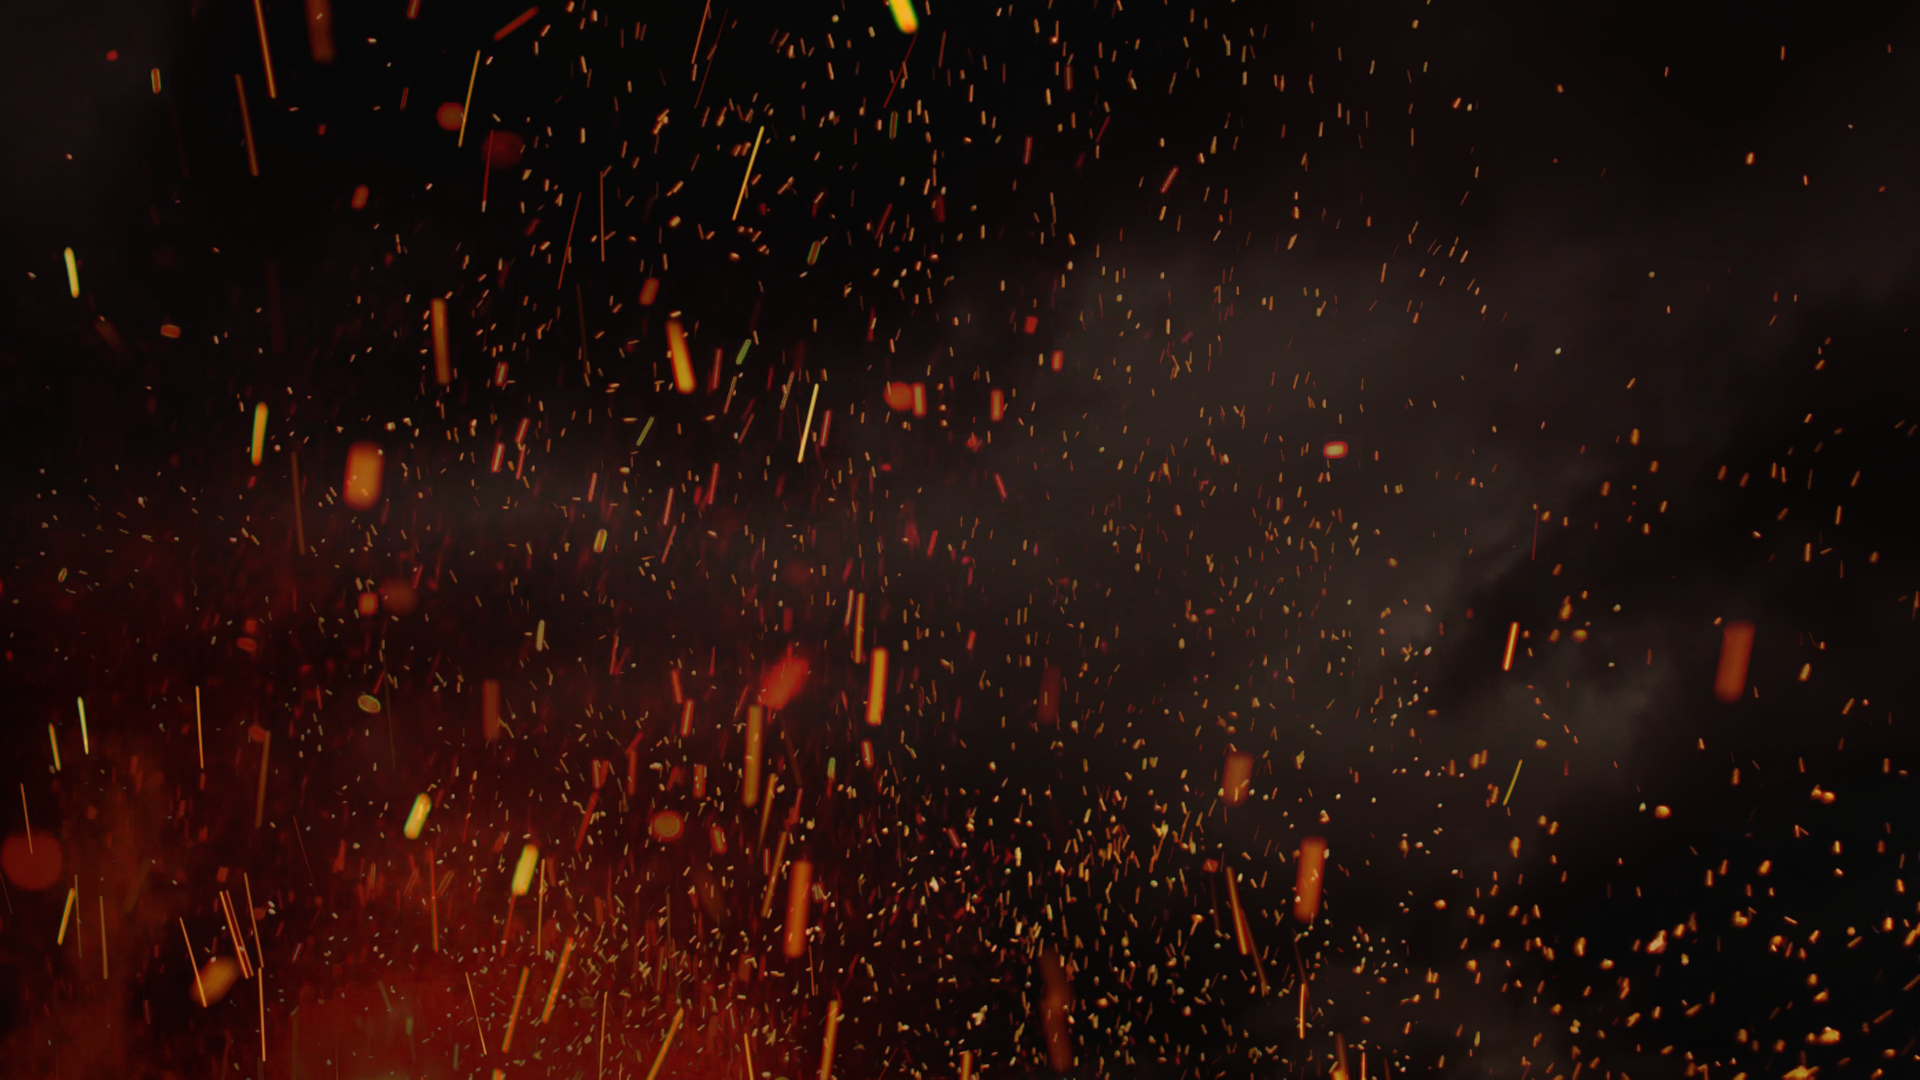
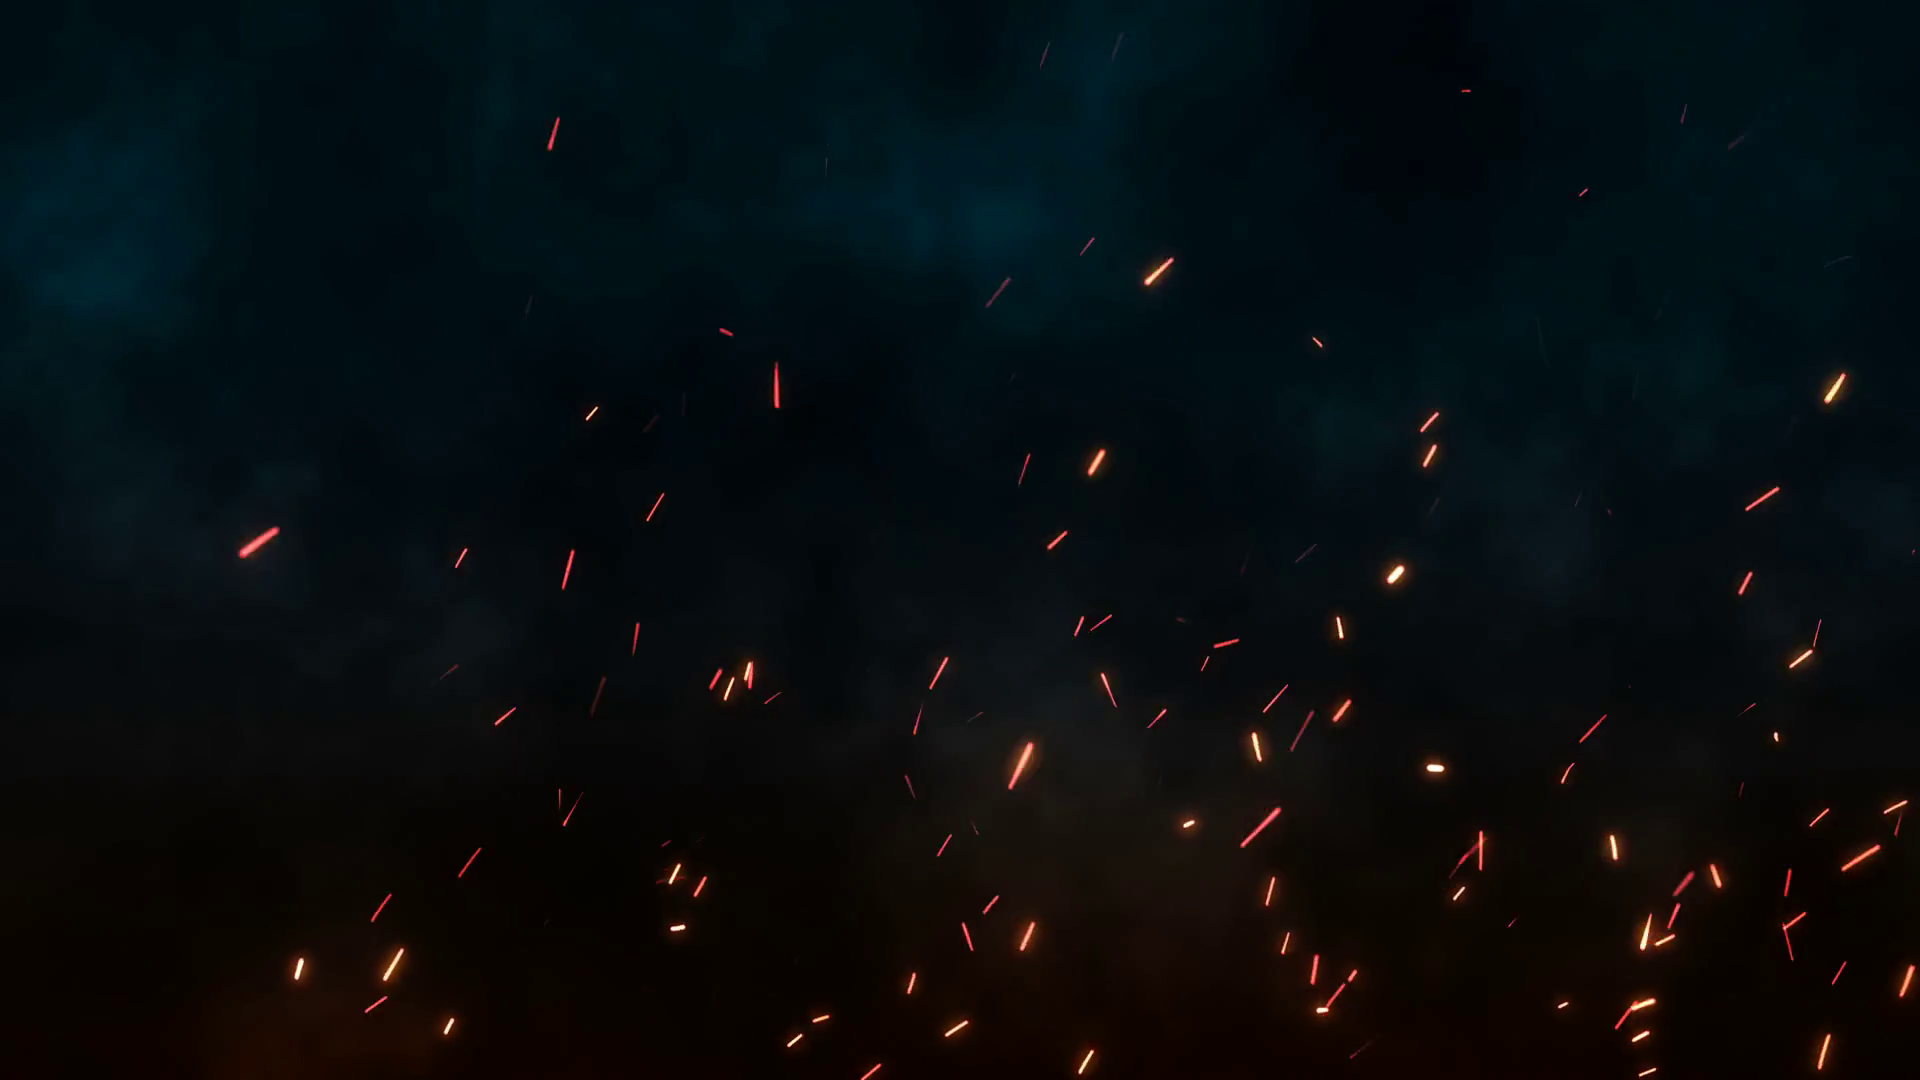
Change HttpPost to HttpPut for update

diff --git a/eSports.Frontend/src/components/screens/Tournament/TournamentComponents/TournamentFilter.jsx b/eSports.Frontend/src/components/screens/Tournament/TournamentComponents/TournamentFilter.jsx
@@ -9,7 +9,7 @@ const TournamentFilter = ({ filterName, handleFilterChange }) => {
           type="text"
           value={filterName}
           onChange={(event) => handleFilterChange(event.target.value)}
-          placeholder='Название команды'
+          placeholder='Название турнира'
         />
       </div>
     );

diff --git a/eSports.Frontend/src/components/screens/Tournament/TournamentComponents/TournamentService.jsx b/eSports.Frontend/src/components/screens/Tournament/TournamentComponents/TournamentService.jsx
@@ -116,7 +116,7 @@ class TournamentService {
   static async simulateStage(tournamentId) {
     try {
       const response = await fetch('https://localhost:7171/Tournament/SimulateStage', {
-        method: 'POST',
+        method: 'PUT',
         headers: {
           'Content-Type': 'application/json',
         },

diff --git a/eSports.Frontend/src/components/screens/Team/TeamPage.jsx b/eSports.Frontend/src/components/screens/Team/TeamPage.jsx
@@ -28,7 +28,7 @@ const TeamPage = () => {
   return (
     <div className="team-page">
       <TeamPageForm teamData={teamData} />
-      <img src="/public/sf2-item.png" alt="Your Image" class="right-image" />
+      <img src="/public/sf-item.png" alt="Your Image" class="right-image" />
     </div>
   );
 }

diff --git a/eSports.Frontend/src/assets/styles/global.css b/eSports.Frontend/src/assets/styles/global.css
@@ -1,5 +1,5 @@
 body {
-    background: url('/public/ashes1.png') no-repeat center center fixed;
+    background: url('/public/ashes.png') no-repeat center center fixed;
     background-size: cover;
     color: white;
     border-color: black;

diff --git a/eSports.Backend/eSports.Service/Tournaments/Implementations/TournamentService.cs b/eSports.Backend/eSports.Service/Tournaments/Implementations/TournamentService.cs
@@ -234,66 +234,35 @@ namespace eSports.Service.Tournaments.Implementations
 
                 for (int i = 0, j = 1; j < tournament.Teams.Count; i++, j++)
                 {
-                    if (_randomWinner.Next(0, 2) == 0)
+                    var winner = _randomWinner.Next(0, 2);
+                    
+                    var resultMatch = new ResultMatchViewModel()
                     {
-                        var resultMatch = new ResultMatchViewModel()
-                        {
-                            FirstTeam = tournament.Teams[i].Name,
-                            SecondTeam = tournament.Teams[j].Name,
-                            Winner = tournament.Teams[i].Name
-                        };
+                        FirstTeam = tournament.Teams[i].Name,
+                        SecondTeam = tournament.Teams[j].Name,
+                        Winner = tournament.Teams[winner == 0 ? i : j].Name
+                    };
 
-                        var json = JsonConvert.SerializeObject(resultMatch);
+                    var json = JsonConvert.SerializeObject(resultMatch);
 
-                        using (var client = new HttpClient())
-                        {
-                            client.BaseAddress = new Uri("https://localhost:7126/Stats/UpdateStats");
-
-                            var content = new StringContent(json, Encoding.UTF8, "application/json");
-                            var result = await client
-                                .PostAsync("https://localhost:7126/Stats/UpdateStats", content);
-
-                            if (result.IsSuccessStatusCode)
-                            {
-                                _logger.LogInformation
-                                    ($"Статистика записана -" +
-                                    $"{tournament.Teams[i].Name} против" +
-                                    $"{tournament.Teams[j].Name}");
-                            }
-                        }
-
-                        tournament.Teams.RemoveAt(j);
-                    }
-                    else
+                    using (var client = new HttpClient())
                     {
-                        var resultMatch = new ResultMatchViewModel()
+                        client.BaseAddress = new Uri("https://localhost:7126/Stats/UpdateStats");
+
+                        var content = new StringContent(json, Encoding.UTF8, "application/json");
+                        var result = await client
+                            .PutAsync("https://localhost:7126/Stats/UpdateStats", content);
+
+                        if (result.IsSuccessStatusCode)
                         {
-                            FirstTeam = tournament.Teams[i].Name,
-                            SecondTeam = tournament.Teams[j].Name,
-                            Winner = tournament.Teams[j].Name
-                        };
-
-                        var json = JsonConvert.SerializeObject(resultMatch);
-
-                        using (var client = new HttpClient())
-                        {
-                            client.BaseAddress = new Uri("https://localhost:7126/Stats/UpdateStats");
-
-                            var content = new StringContent(json, Encoding.UTF8, "application/json");
-                            var result = await client
-                                .PostAsync("https://localhost:7126/Stats/UpdateStats",content);
-
-                            if (result.IsSuccessStatusCode)
-                            {
-                                _logger.LogInformation
-                                    ($"Статистика записана - " +
-                                    $"{tournament.Teams[i].Name} против" +
-                                    $"{tournament.Teams[j].Name}");
-                            }
+                            _logger.LogInformation
+                                ($"Статистика записана -" +
+                                $"{tournament.Teams[i].Name} против" +
+                                $"{tournament.Teams[j].Name}");
                         }
-
-                        tournament.Teams.RemoveAt(i);
                     }
+
+                    tournament.Teams.RemoveAt(winner == 0 ? j : i);
                 }
 
                 await _tournamentRepository.Update(tournament);

diff --git a/eSports.Backend/Tournaments.WebApi/Controllers/TournamentController.cs b/eSports.Backend/Tournaments.WebApi/Controllers/TournamentController.cs
@@ -46,7 +46,7 @@ namespace Tournaments.WebApi.Controllers
             return BadRequest(new { description = response.Description });
         }
 
-        [HttpPost]
+        [HttpPut]
         public async Task<IActionResult> SimulateStage([FromBody] int id)
         {
             var response = await _tournamentService.SimulateTournamentStage(id);

diff --git a/eSports.Backend/Stats.WebApi/Controllers/StatsController.cs b/eSports.Backend/Stats.WebApi/Controllers/StatsController.cs
@@ -46,7 +46,7 @@ namespace Stats.WebApi.Controllers
             return BadRequest(new { description = response.Description });
         }
 
-        [HttpPost]
+        [HttpPut]
         public async Task<IActionResult> UpdateStats([FromBody] ResultMatchViewModel model)
         {
             var response = await _statsService.Update(model);

diff --git a/eSports.Backend/Players.WebApi/Controllers/PlayerController.cs b/eSports.Backend/Players.WebApi/Controllers/PlayerController.cs
@@ -46,7 +46,7 @@ namespace Players.WebApi.Controllers
             return BadRequest(new { description = response.Description });
         }
 
-        [HttpPost]
+        [HttpPut]
         public async Task<IActionResult> UpdatePlayer(PlayerViewModel model)
         {
             var response = await _playerService.Update(model);

diff --git a/eSports.Backend/Teams.WebApi/Controllers/TeamController.cs b/eSports.Backend/Teams.WebApi/Controllers/TeamController.cs
@@ -46,7 +46,7 @@ namespace Teams.WebApi.Controllers
             return BadRequest(new { description = response.Description });
         }
 
-        [HttpPost]
+        [HttpPut]
         public async Task<IActionResult> UpdateTeam(TeamViewModel model)
         {
             var response = await _teamService.Update(model);
